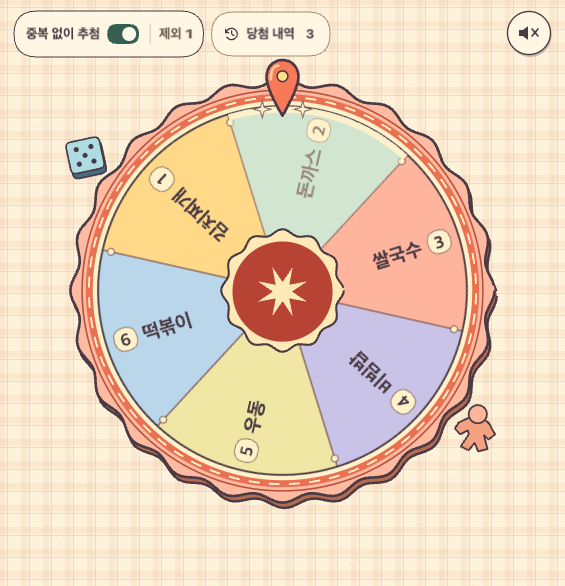
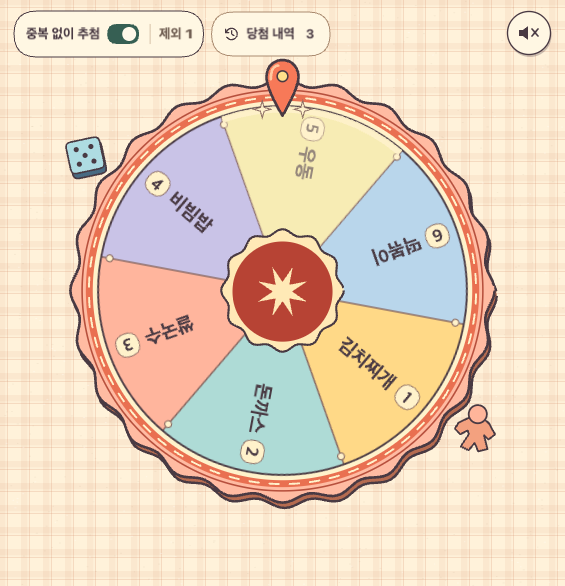
Delay roulette result reveal after winner highlight

Changed region(s): [[0.1504, 0.1843, 0.8425, 0.8294]]

diff --git a/src/components/features/picnic/paint.ts b/src/components/features/picnic/paint.ts
@@ -9,7 +9,8 @@ import { assemblyPose, assemblyProgress } from "./resultAssembly";
 import { drawCloth, drawHub, drawSound, layer, pen } from "./stationery";
 import { drawTicket } from "./ticket";
 
-const winnerHoldMs = 320;
+const winnerHighlightMs = 300;
+const winnerPauseMs = 300;
 
 export async function createPicnicPainter(canvas: HTMLCanvasElement) {
 	const renderer = await createBoardRenderer(canvas);
@@ -86,16 +87,18 @@ export async function createPicnicPainter(canvas: HTMLCanvasElement) {
 		}
 		const from = arrival;
 		const target = next ? 1 : 0;
-		const hold = next ? winnerHoldMs : 0;
+		const highlight = next ? winnerHighlightMs : 0;
+		const delay = highlight + (next ? winnerPauseMs : 0);
 		winner.visible = next;
 		winner.alpha = 0;
 		pose();
 		const start = performance.now();
 		function tick(now: number) {
 			const elapsed = Math.max(0, now - start);
-			winner.visible = elapsed < hold;
-			if (winner.visible) winner.alpha = Math.sin((Math.PI * elapsed) / hold);
-			const distance = Math.max(0, elapsed - hold) / 640;
+			winner.visible = elapsed < highlight;
+			if (winner.visible)
+				winner.alpha = Math.sin((Math.PI * elapsed) / highlight);
+			const distance = Math.max(0, elapsed - delay) / 640;
 			arrival = next
 				? Math.min(1, from + distance)
 				: Math.max(0, from - distance);
